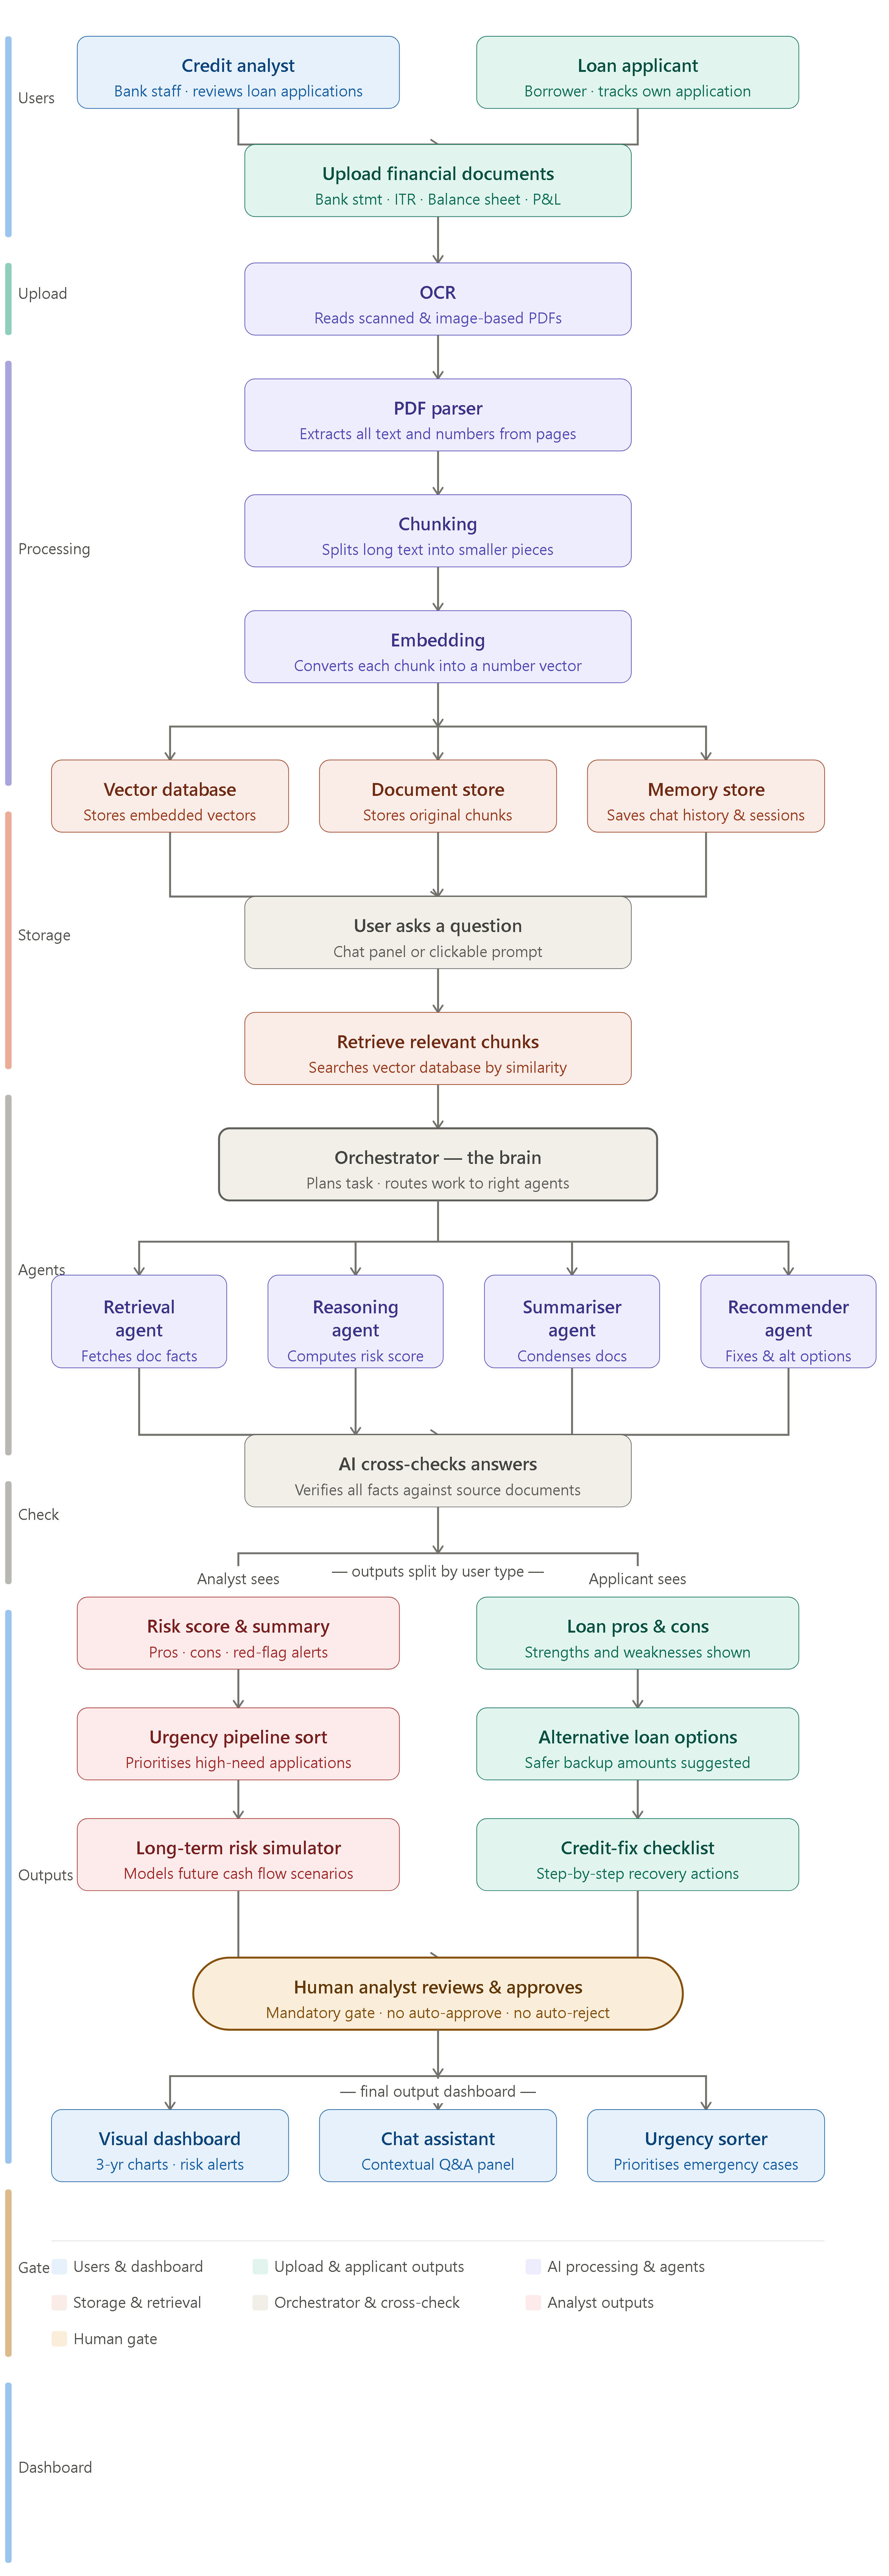
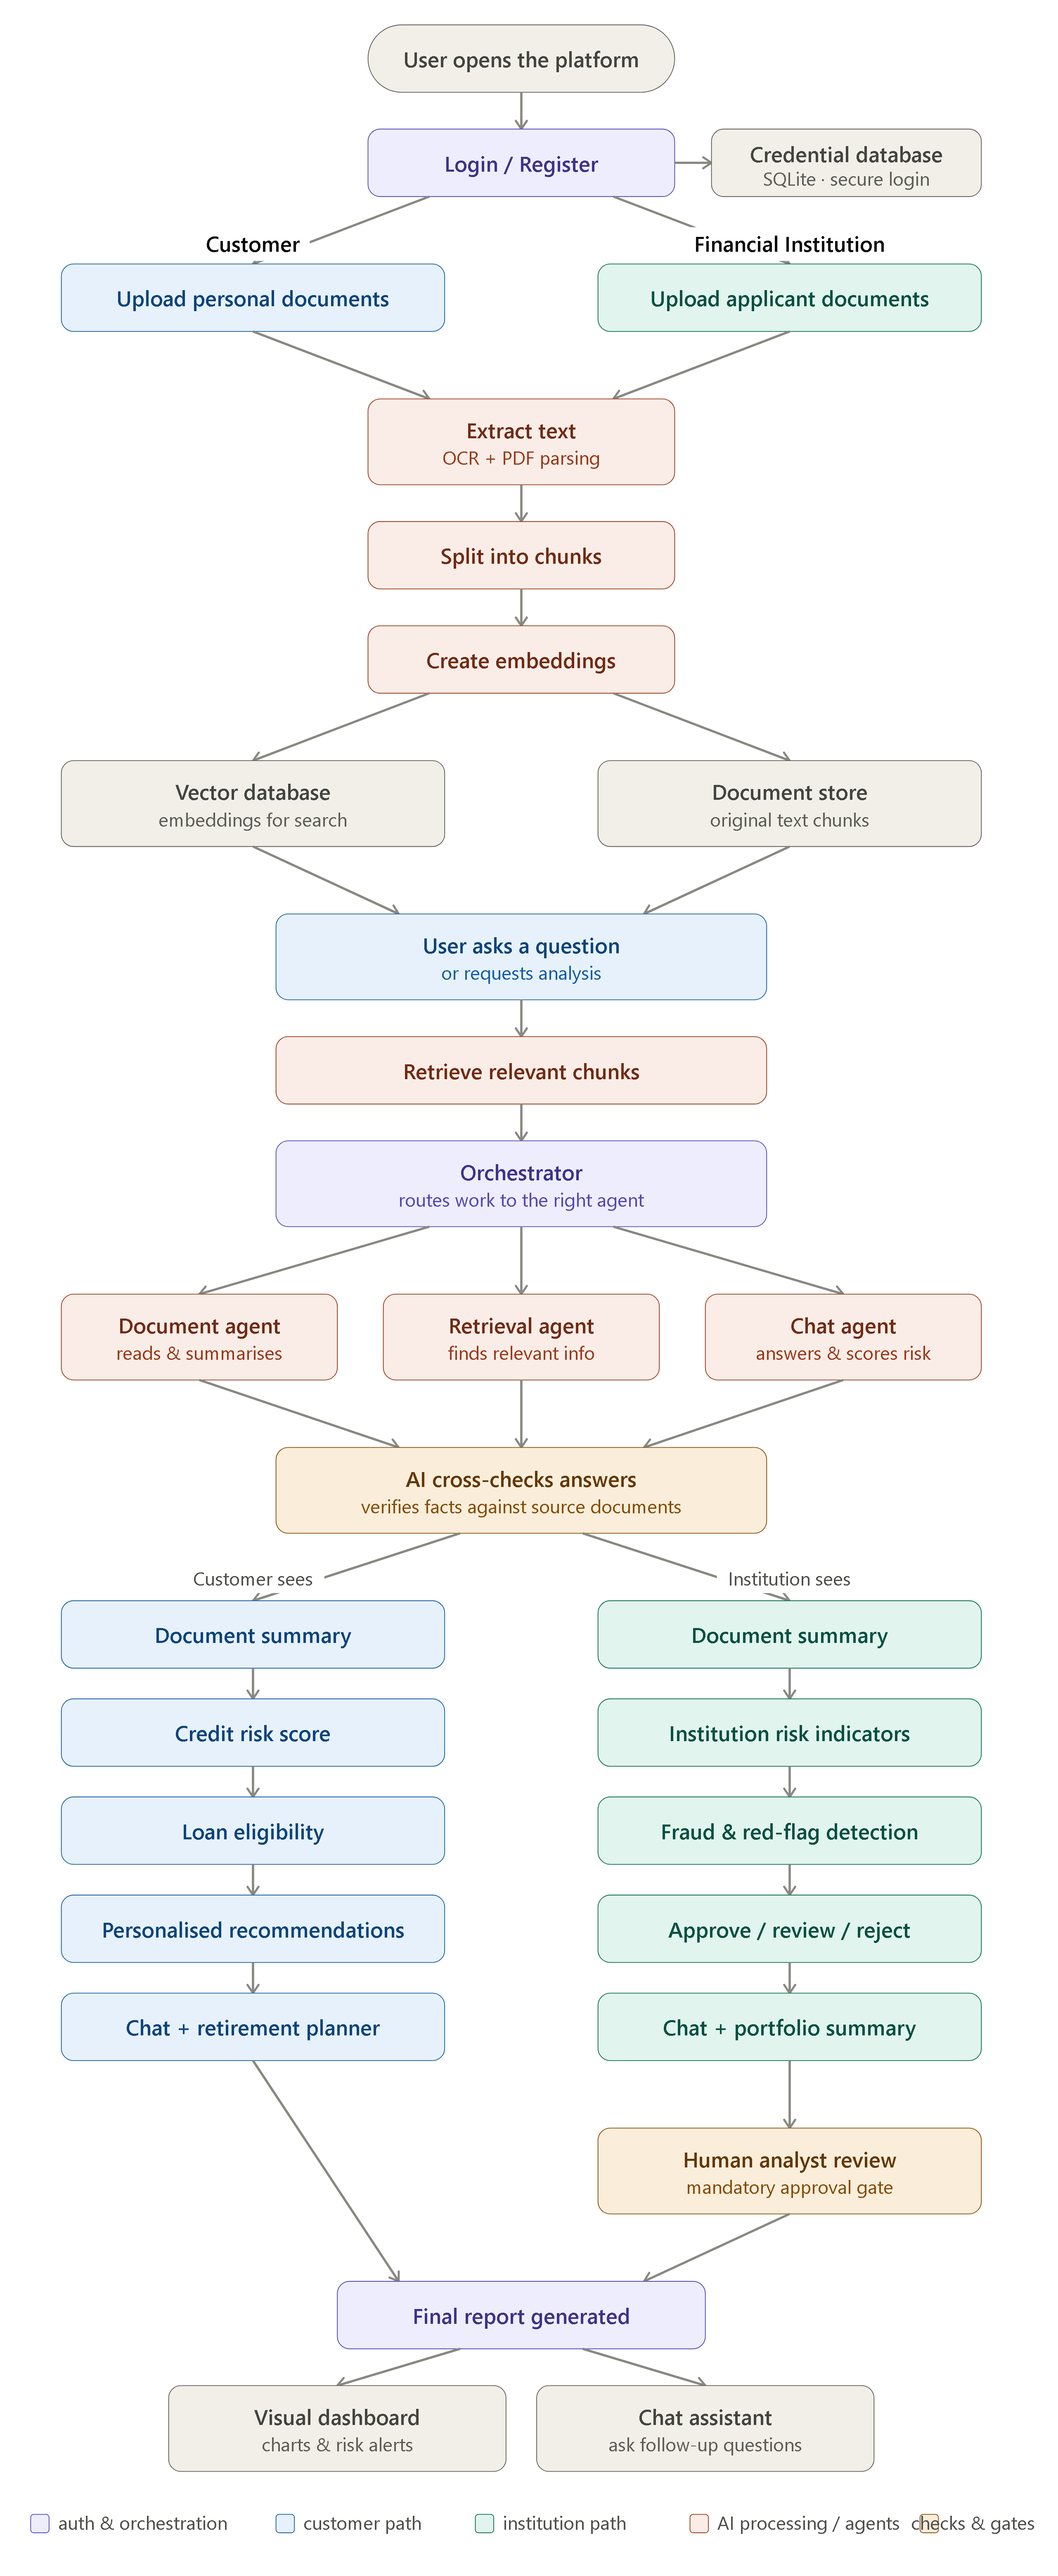
adding updated capstone architecture

diff --git a/Day-26/Milestone5_Capstone_Assessment_FINAL_ANSWERS.md b/Day-26/Milestone5_Capstone_Assessment_FINAL_ANSWERS.md
@@ -1,0 +1,120 @@
+# Milestone 5 Capstone Assessment — Answers
+### Project: Credit Risk Intelligence Platform (Akash Chaurasiya & Ashu Sharma, EY Training 2026)
+
+---
+
+## SECTION A — Problem Framing & Data Strategy (20 marks · 25 min)
+
+### Question 1 [10 marks]
+
+**(a) ML problem statement**
+
+Translating the stakeholder's vague ask into my domain: *"We're rejecting good applicants and approving bad ones — build us something to fix that."*
+
+- **Target variable:** a 0–100 credit risk score, bucketed into an Approve / Review / Reject decision. The underlying construct that score is a proxy for is *probability of default or serious delinquency* — but since my platform scores applicants from uploaded documents (salary slips, bank statements, ITR, credit reports) rather than from a labeled loan-performance history, what I've actually built is a **point-in-time creditworthiness assessment**, not a true forward-looking default model.
+- **Unit of analysis:** one loan application event (an applicant + their document set at a point in time), not "the customer" as a persistent entity — the same person reapplying six months later with different financials should get a different score.
+- **Prediction window:** this is the honest gap to name to the stakeholder — a real forward-looking model needs a labeled outcome ("did this loan default within N months of disbursement"), which a document-scoring pipeline doesn't have by default. I'd propose a 12–24 month repayment-outcome window as the target for a future labeled version, and be explicit that the current system is a defensible interim proxy, not the end state.
+
+**(b) Metrics**
+
+*Business metrics:*
+1. **Time-to-decision** — the core value proposition is going from days of manual review to minutes; if accuracy improves but officers still re-verify everything by hand, the business problem isn't solved.
+2. **Approval rate among creditworthy applicants** — the "revenue loss" framing in the problem statement is about losing good customers to faster competitors, so this tracks whether the system is actually recovering that lost business, not just being technically accurate.
+
+*ML metrics:*
+1. **Faithfulness / groundedness of the generated explanation** (RAGAS-style) — a risk score is only useful if the reasoning behind it is traceable to real figures in the applicant's documents.
+2. **Hallucination rate** (DeepEval-style, checking every claim against retrieved chunks) — proxies for whether the output can be trusted without a human re-verifying it line by line, which is the entire point of automating this step.
+
+*Why a high ML metric alone isn't enough:* a system can score very well on faithfulness and still fail the stakeholder if it's too slow to use, if bank officers can't defend its output in an audit, or if it produces disparate outcomes across applicant subgroups (see Q7). None of those failure modes show up in a faithfulness or accuracy number — they only show up when you look at how the output is actually used downstream.
+
+---
+
+### Question 2 [10 marks]
+
+*(Framing note: the specific % figures below are illustrative of the scenario as given — swap in your actual data-quality findings if you have them.)*
+
+**(a) Triage/priority:** fix the unseen-category issue first; treat the timestamp corruption as a documented limitation rather than a silent patch. Reasoning: an unseen category (e.g., a new bank name, employment type, or loan type format the extraction/prompt logic has never encountered) tends to fail *silently* — it produces a wrong or missing value that flows straight into the score with no visible error. A corrupted timestamp usually fails *loudly* (a parse error, a missing date), which is a safer failure mode because it can be caught and flagged rather than quietly mis-scoring someone.
+
+**(b) Remediation:**
+- *Unseen categories:* bucket unrecognized values into an "Other/Unclassified" category with a confidence flag, rather than dropping the row or forcing a guess. Route ambiguous fields through a document-summary fallback (plain-language description) instead of a rigid schema field, so the information isn't lost even if it can't be structured.
+- *Corrupted timestamps:* don't impute a fabricated date for financial documents — a wrong date on a bank statement can change which month's balance is being scored. Re-extract from the raw page first; if that fails, exclude the field from scoring and surface "date unverified" explicitly rather than defaulting to today's date or a median.
+
+**(c) Known limitation to flag rather than silently fix:** the extraction and prompting logic is tuned against a specific set of document templates. A spike in unseen categories in the most recent month is a signal that document-format coverage is narrower than a demo might suggest — better to state that plainly in the report ("performance is validated against X document formats; unseen formats are not yet covered") than let the demo imply broader robustness than actually exists.
+
+---
+
+## SECTION B — Modeling & Evaluation (30 marks · 40 min)
+
+### Question 3 [10 marks]
+
+My system is an LLM + retrieval pipeline rather than a classical trained classifier, so the interpretability-vs-performance tradeoff shows up between model *configurations* rather than model *families* — e.g., a faster fallback model versus a slower, higher-quality primary model.
+
+I'd keep the higher-quality, slower option as primary (with a faster fallback held in reserve) rather than optimizing purely for speed. The deciding factor beyond raw performance is **regulatory/audit defensibility**: a bank officer's Approve/Reject decision needs a written justification that could be scrutinized later. A faster but thinner explanation would undercut the entire stated goal — replacing manual review that was "inconsistent and hard to explain" — with something that's fast but equally hard to defend.
+
+If a true trained classifier were involved (e.g., scoring DTI or NPA/CRAR thresholds), the same principle from the original scenario would apply directly: the simpler, interpretable model would be favored for the officer-facing decision, since that's the one that needs to survive an audit — a modest performance gap (e.g., 0.78 vs. 0.84 on a primary metric) is not worth losing that.
+
+### Question 4 [10 marks]
+
+Three plausible causes, most to least likely, for a document-grounded RAG pipeline like this:
+
+1. **Temporal leakage / stale retrieval** — if validation happened to sit on a period where document dates matched the "current" prompt assumptions cleanly, and the held-out slice spans a different period, a re-ranking step that filters by recency could under-filter, letting outdated figures leak into the current answer.
+2. **Document format drift** — a held-out time slice may include a new statement or report template that the text-extraction step wasn't tuned against, silently degrading everything downstream of it.
+3. **Model/provider drift** — if the held-out run happened to fall back to a secondary LLM provider (due to rate limits or an outage), answer quality and hallucination rate could differ from what was seen in validation, since different providers aren't guaranteed to behave identically.
+
+For the most likely cause (#1), the diagnostic check is: pull request traces for a sample of held-out-period queries and inspect what the retrieval step actually returned — specifically, do the retrieved chunks' document dates match the time period implied by the query? I'd also re-run the hallucination-detection check (DeepEval-style) on the held-out slice specifically, rather than only on the original validation set, and compare it against the baseline score — a regression back toward the pre-fix hallucination rate would confirm the re-ranker isn't generalizing to the new time period.
+
+### Question 5 [10 marks]
+
+*(Framing note: the "4%" figure below matches the scenario as given — replace with your dataset's actual class balance if you have it.)*
+
+If the minority class of interest is "high-risk / Reject-worthy" applicants at roughly 4% of the pool, a model that predicts "Approve" for everyone scores **96% accuracy** while catching zero risky applicants — the opposite of what the system exists to do. Concretely: out of 1,000 applications, 40 are genuinely high-risk; a model that always says "Approve" gets all 960 low-risk applicants right and reports 96% accuracy, while missing all 40 high-risk cases it was built to catch.
+
+Instead of accuracy, I'd present:
+- **Recall on the high-risk class** — did the system catch the risky applicants at all. A missed high-risk approval (false negative) becomes an actual bad loan on the bank's books, discovered late and expensively.
+- **Precision on the Reject/Review class**, alongside a faithfulness/hallucination check — because a false positive here (flagging a genuinely creditworthy applicant as high-risk) directly costs the bank a good customer, which is the exact "revenue loss" pain point in the original problem framing.
+
+Cost asymmetry: a false negative (bad loan approved) is typically more expensive than a false positive (good applicant routed to manual Review instead of auto-Approved), since Review isn't a hard rejection — it routes to a human. That argues for biasing the system toward higher recall on the risky class, accepting more borderline-good applicants being sent to Review, rather than optimizing for headline accuracy.
+
+---
+
+## SECTION C — Deployment, Monitoring & Risk (25 marks · 35 min)
+
+### Question 6 [10 marks]
+
+**Data/feature drift checks:**
+1. **Document-format drift** — track the share of monthly uploads landing in "Unclassified" buckets or failing document-completeness validation. Trigger: unclassified rate exceeding ~10% in a rolling week → investigate new document templates.
+2. **Input distribution drift** — track the monthly distribution of extracted income and debt-to-income figures against a historical baseline. Trigger: a shift beyond ~1.5× the historical standard deviation in median DTI → investigate whether it's a genuine market shift or a broken extraction step.
+
+**Performance-decay checks:**
+1. **Hallucination score on a rolling sample of live traces** — sample and re-score live outputs weekly against the faithfulness/hallucination check used in evaluation. Trigger: rolling average regressing toward the pre-fix baseline → pause auto-decisions and route to manual review until root-caused.
+2. **Fallback-provider usage rate** — track what share of requests are served by a secondary/fallback model instead of the primary. Trigger: fallback usage above ~20% for more than a day → investigate primary provider health, since quality can differ across providers even when errors aren't visible to the user.
+
+**Action on breach:** not auto-retraining (no live-labeled feedback loop exists yet) — alert the platform owner, temporarily downgrade auto-decisions to "Review" instead of "Approve/Reject," and pull the relevant request traces to diagnose root cause before restoring normal operation.
+
+### Question 7 [10 marks]
+
+**(a) Subgroup analysis:** compare the Approve/Review/Reject distribution and average risk score across a sensitive subgroup (e.g., self-employed/SME applicants vs. salaried applicants, or applicants by region), while holding financial fundamentals — DTI, income, credit history — roughly constant. The specific metric to compare is **selection rate** (share approved) and **average score conditional on comparable fundamentals** across groups — if two applicants have near-identical DTI and repayment history but consistently different average scores based on group membership, that's the signal to investigate. I'd also audit whether entity-type branching logic (individual vs. institution scoring paths) is behaving as intended, since a bug in that branching could produce a systematic disparity that isn't actually a bias in the reasoning itself.
+
+**(b) Mitigations:**
+- *Data/feature level:* audit whether qualitative signals (e.g., "declining revenue" language, employment-type framing) are being weighted more harshly for one subgroup than the underlying numbers justify — i.e., check for a proxy variable effect rather than a true risk difference.
+- *Model/decision level:* require every Approve/Review/Reject explanation to cite the specific financial figures behind it before finalizing (extending the same faithfulness check used for hallucination control) — this makes any subgroup-correlated pattern traceable back to a real number rather than an unexplained judgment call, and makes disparities auditable after the fact.
+
+---
+
+## SECTION D — Communication & Reflection (25 marks · 20 min)
+
+### Question 8 [15 marks]
+
+**(a) Plain-language explanation (≤120 words, ≤1 technical term):**
+
+> "Our system flagged this application as high-risk because a large share of this person's monthly income is already going toward paying off existing debt — a ratio we call 'debt-to-income,' which just means how much of what they earn each month is already spoken for before any new loan payment. On top of that, their bank statements and credit report show a recent pattern of late payments. Neither factor alone would trigger a reject, but together they suggest little room to safely take on a new loan right now. We'd recommend either a smaller loan amount or a repayment plan on existing debt before reapplying."
+
+(~110 words; one technical term — "debt-to-income" — defined inline.)
+
+**(b) Interpretability technique:** the explanation is generated by a retrieval-grounded language-model pipeline — the model's output is constrained to reference facts pulled from the applicant's own uploaded documents via hybrid search, rather than a formal statistical attribution method like SHAP or a fixed feature-importance ranking. One real limitation: because it's language-generated rather than derived from a fixed numerical attribution, the explanation can still overstate or understate how much weight a given factor actually played — automated faithfulness checks can catch outright fabricated numbers, but they don't guarantee that relative-importance language ("primarily because of X") is numerically precise, only that the facts cited are real.
+
+---
+
+### Question 8 continued — Project Reflection
+
+If I had one more week, the highest-leverage change would be **moving off SQLite to a managed auth/data store** (e.g., Supabase or Auth0). The evidence motivating this isn't a metric from a chart — it's a known operational failure mode: SQLite inside a container loses data on every redeploy, meaning every CI/CD-driven fix wipes user accounts and history. That's a bigger real-world reliability risk than a marginal gain in accuracy or hallucination rate, because it means the platform can't hold state across its own deployment cycle — and for a system handling real financial documents, silently losing user data on every deploy is a trust and compliance issue, not just an inconvenience.